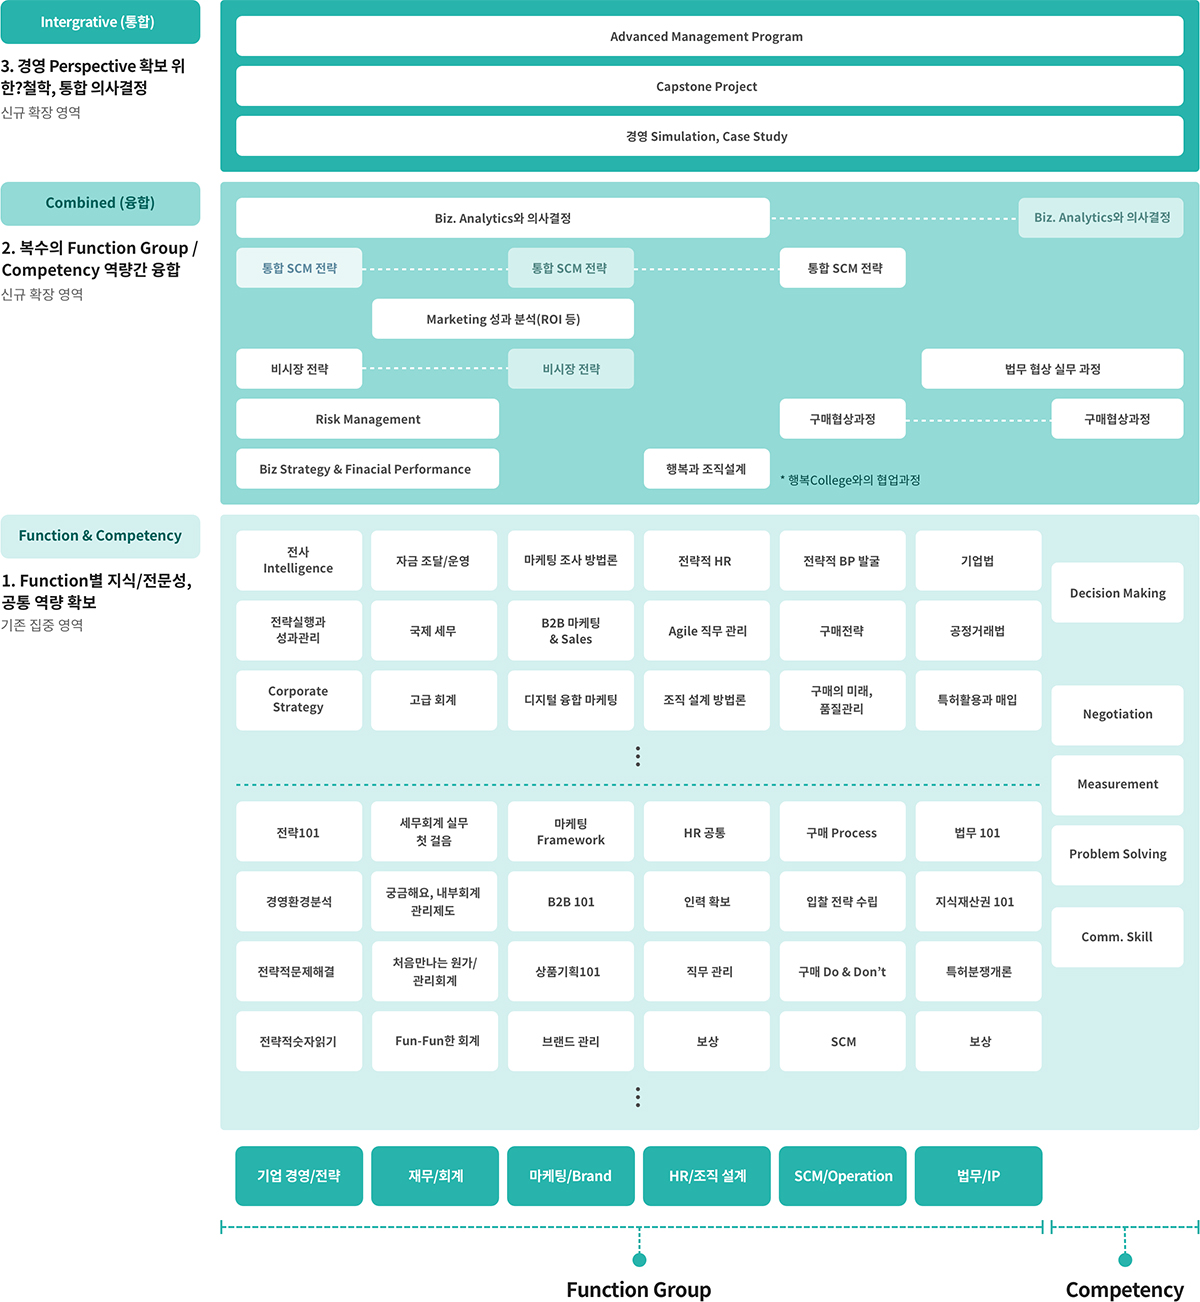
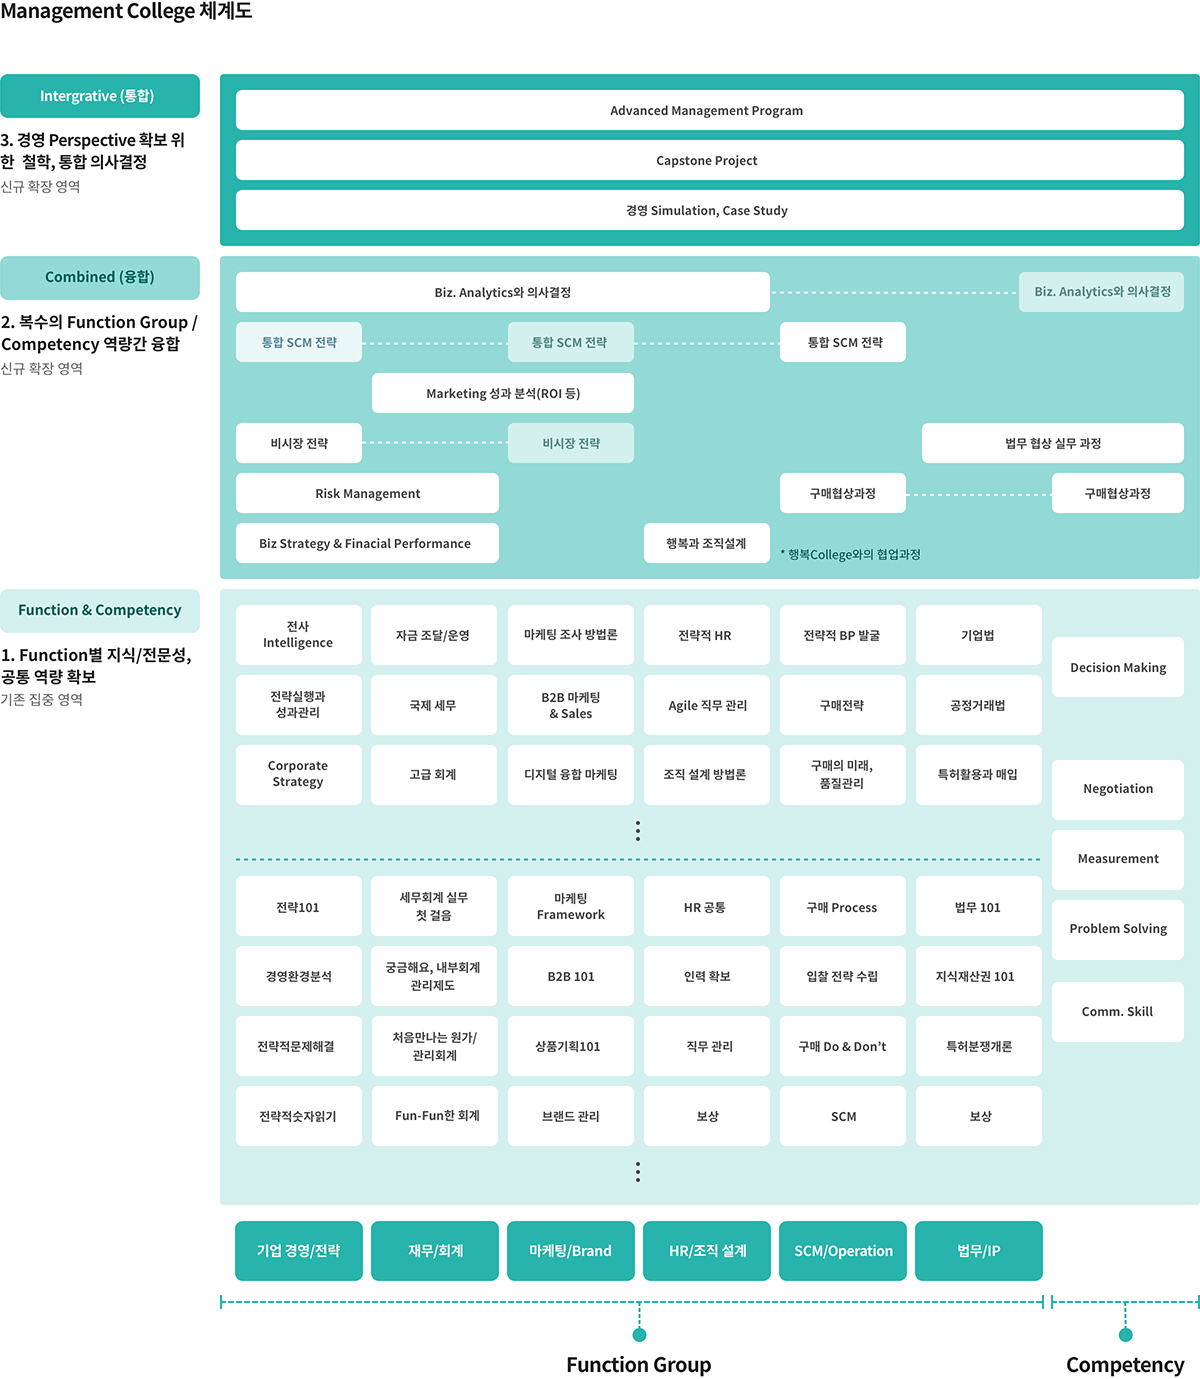
컬리지 매니지먼트 이미지 교체

diff --git a/src/main/ui/view/CollegeInnerTabView.tsx b/src/main/ui/view/CollegeInnerTabView.tsx
@@ -24,13 +24,13 @@ const panes = [
         </div>
         <div className="college-cont-map sub wrap01">
           <div className="belt">
-            <div className="label sub">Management College 체계도</div>
+            {/* <div className="label sub">Management College 체계도</div> */}
             <Image src={`${PUBLIC_URL}/images/all/main_01.jpg`} alt="" />
           </div>
         </div>
         <div className="college-cont-map sub">
           <div className="belt">
-            <Image src={`${PUBLIC_URL}/images/all/main_02.png`} alt="" />
+            <Image src={`${PUBLIC_URL}/images/all/main_02.jpg`} alt="" />
           </div>
         </div>
       </Tab.Pane>
@@ -60,7 +60,7 @@ const panes = [
         </div>
         <div className="college-link-box">
           <div className="belt">
-            <Image src={`${PUBLIC_URL}/images/all/con-01-1.png`} alt="" />
+            <Image src={`${PUBLIC_URL}/images/all/sub_01.jpg`} alt="" />
           </div>
         </div>
       </Tab.Pane>
@@ -90,7 +90,7 @@ const panes = [
       </div>
       <div className="college-link-box">
         <div className="belt">
-        <Image src={`${PUBLIC_URL}/images/all/con-01-2.png`} alt="" />
+        <Image src={`${PUBLIC_URL}/images/all/sub_02.jpg`} alt="" />
         </div>
       </div>
     </Tab.Pane>,
@@ -116,7 +116,7 @@ const panes = [
       </div>
       <div className="college-link-box">
         <div className="belt">
-        <Image src={`${PUBLIC_URL}/images/all/con-01-3.png`} alt="" />
+        <Image src={`${PUBLIC_URL}/images/all/sub_03.jpg`} alt="" />
         </div>
       </div>
     </Tab.Pane>,
@@ -147,7 +147,7 @@ const panes = [
       </div>
       <div className="college-link-box">
         <div className="belt">
-        <Image src={`${PUBLIC_URL}/images/all/con-01-4.png`} alt="" />
+        <Image src={`${PUBLIC_URL}/images/all/sub_04.jpg`} alt="" />
         </div>
       </div>
     </Tab.Pane>,
@@ -173,7 +173,7 @@ const panes = [
       </div>
       <div className="college-link-box">
         <div className="belt">
-        <Image src={`${PUBLIC_URL}/images/all/con-01-5.png`} alt="" />
+        <Image src={`${PUBLIC_URL}/images/all/sub_05.jpg`} alt="" />
         </div>
       </div>
     </Tab.Pane>,
@@ -199,7 +199,7 @@ const panes = [
       </div>
       <div className="college-link-box">
         <div className="belt">
-          <Image src={`${PUBLIC_URL}/images/all/con-01-6.png`} alt="" />
+          <Image src={`${PUBLIC_URL}/images/all/sub_06.jpg`} alt="" />
         </div>
       </div>
 
